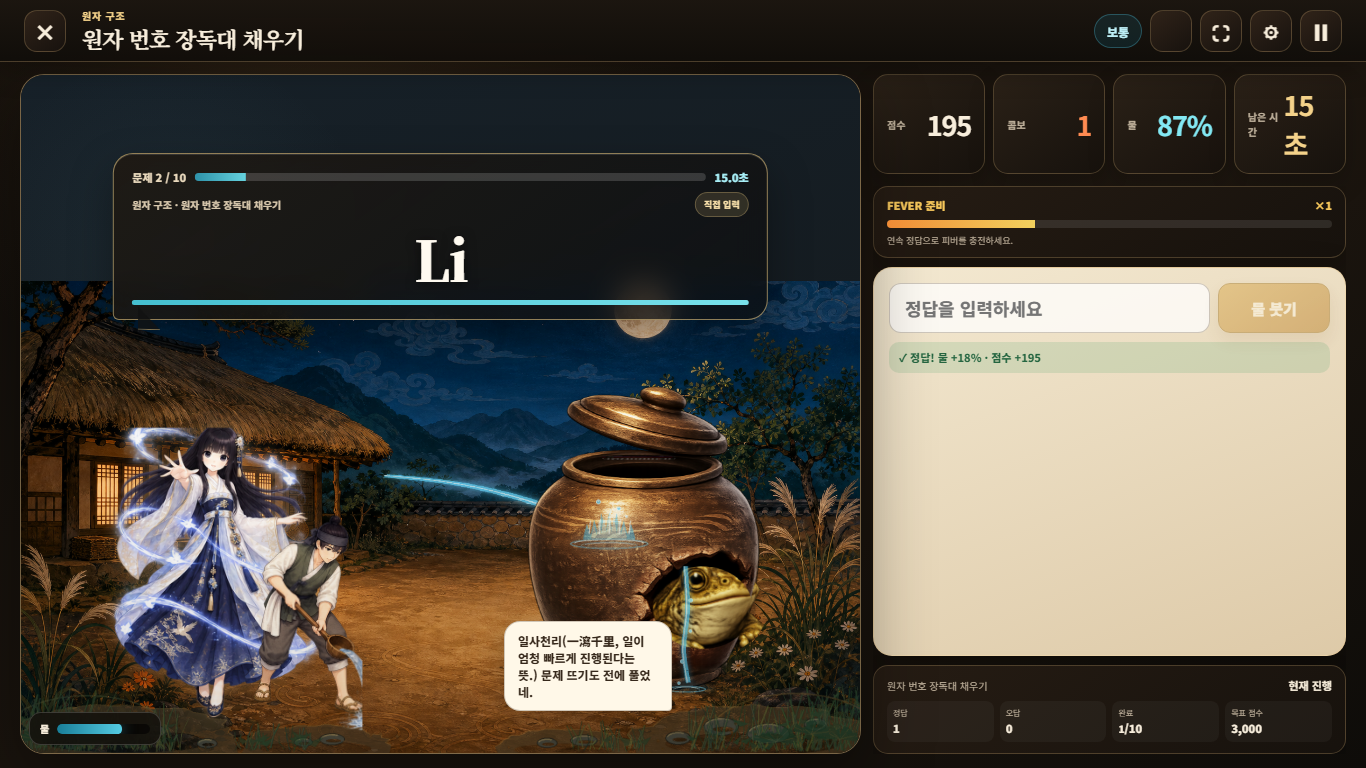
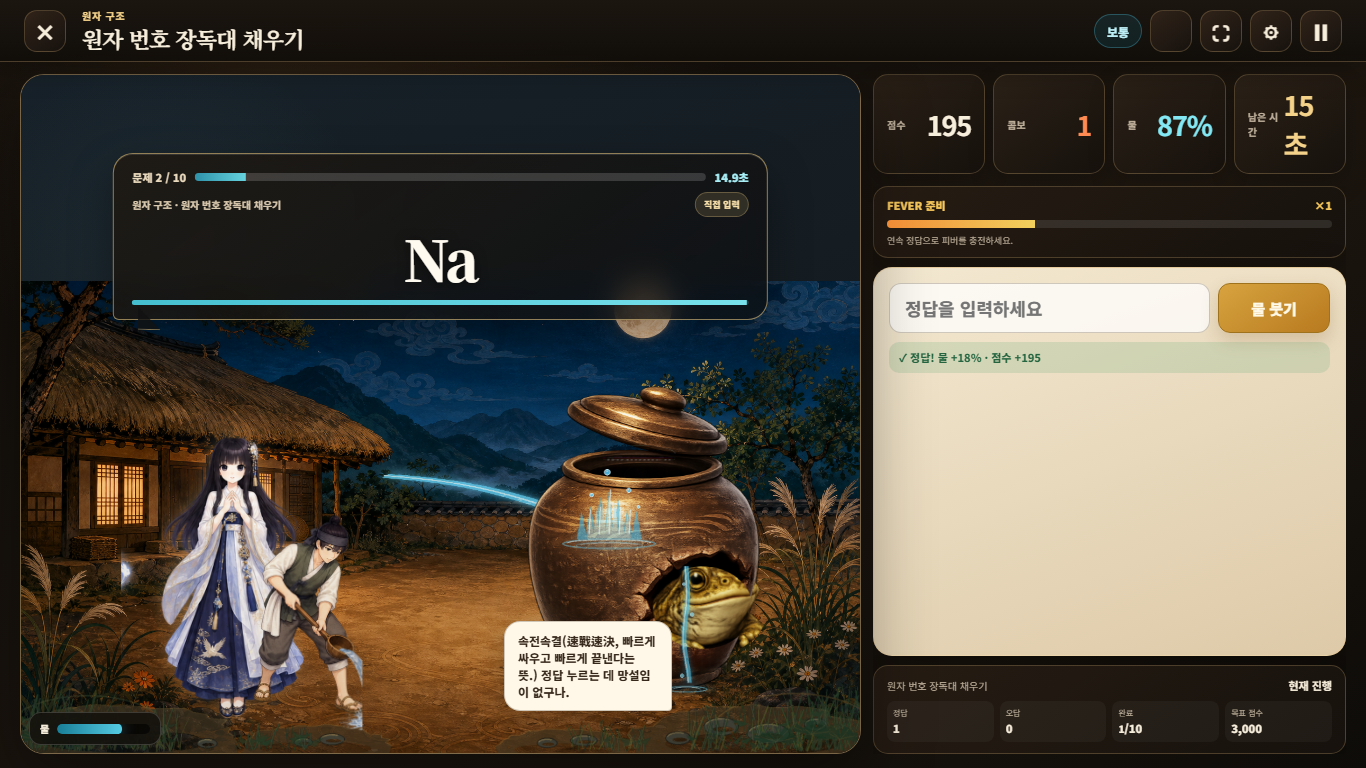
fix: keep quiz cadence brisk during pour effects

diff --git a/assets/js/scene-state-machine.js b/assets/js/scene-state-machine.js
@@ -1,8 +1,12 @@
 import { isCourtServantMode, playCourtServantPour, resetCourtServantPour } from "./court-servant-effect.js";
-import { feedbackCadenceMs } from "./quiz-cadence.js";
 
 const EVENT_TARGET = globalThis;
 const TRANSIENT_FEEDBACK_STATES = new Set(["correct", "wrong", "timeout"]);
+export const SCENE_FEEDBACK_DURATION_MS = Object.freeze({
+  correct: 1400,
+  wrong: 680,
+  timeout: 820
+});
 const POUR_CHARACTER_FRAMES = [2, 2, 3, 3, 4, 4, 5, 5, 5, 6, 6];
 const POUR_STREAM_FRAMES = [1, 2, 3, 4, 5, 6, 7];
 const POUR_SPLASH_FRAMES = [1, 2, 3, 4, 5];
@@ -195,7 +199,7 @@ export class LayeredSceneStateController {
         const combo = Number(detail.combo || detail.streak || 0);
         this.renderer.setExpression(combo >= 3 ? "combo" : "correct");
         this.playCorrectFeedback(detail);
-        this.schedule(() => this.apply("question"), feedbackCadenceMs("correct"));
+        this.schedule(() => this.apply("question"), SCENE_FEEDBACK_DURATION_MS.correct);
         break;
       }
 
@@ -208,7 +212,7 @@ export class LayeredSceneStateController {
         this.playSequence("kongjwi", sequences.answerWrong?.kongjwi || [7], 560, { hold: true });
         this.playSequence("tool", [7], 560, { hold: true });
         this.startLeakLoop({ energetic: true });
-        this.schedule(() => this.apply("question"), feedbackCadenceMs("wrong"));
+        this.schedule(() => this.apply("question"), SCENE_FEEDBACK_DURATION_MS.wrong);
         break;
 
       case "timeout":
@@ -218,7 +222,7 @@ export class LayeredSceneStateController {
         this.playSequence("kongjwi", [7], 700, { hold: true });
         this.playSequence("tool", [7], 700, { hold: true });
         this.startLeakLoop({ energetic: true });
-        this.schedule(() => this.apply("question"), feedbackCadenceMs("timeout"));
+        this.schedule(() => this.apply("question"), SCENE_FEEDBACK_DURATION_MS.timeout);
         break;
 
       case "warning":

diff --git a/콩쥐야_줘때써.html b/콩쥐야_줘때써.html
@@ -97,7 +97,7 @@
 
   <dialog id="exitDialog" class="modal-card" aria-labelledby="exitTitle"><form method="dialog"><p class="eyebrow">PAUSED</p><h2 id="exitTitle">장독대 채우기를 멈출까요?</h2><p>진행 상태는 브라우저에 저장됩니다.</p><div class="dialog-actions"><button id="continueButton" class="primary-button" value="cancel">계속하기</button><button id="confirmHomeButton" class="danger-button" value="home">장독대 고르기로</button></div></form></dialog>
   <dialog id="adDialog" class="modal-card ad-dialog" aria-label="광고"><form method="dialog"><div class="ad-slot" aria-label="광고 자리"><script async src="https://pagead2.googlesyndication.com/pagead/js/adsbygoogle.js?client=ca-pub-7275002640073391" crossorigin="anonymous"></script></div><div class="dialog-actions"><button class="primary-button" value="close">결과 확인</button></div></form></dialog>
-  <script type="module" src="assets/js/game-page.js?v=20260812-dolsoe-pour1"></script>
+  <script type="module" src="assets/js/game-page.js?v=20260812-rhythm-cadence1"></script>
   <script type="module" src="assets/js/game-bgm.js?v=20260807-audio-bgm2"></script>
   <script type="module" src="assets/js/game-sfx.js?v=20260807-audio-bgm2"></script>
   <script type="module" src="assets/js/result-panel-enhancements.js?v=20260807-result-actions2"></script>

diff --git a/assets/js/quiz-cadence.js b/assets/js/quiz-cadence.js
@@ -1,5 +1,5 @@
 export const QUIZ_FEEDBACK_CADENCE = Object.freeze({
-  correct: 1400,
+  correct: 680,
   wrong: 680,
   timeout: 820
 });
